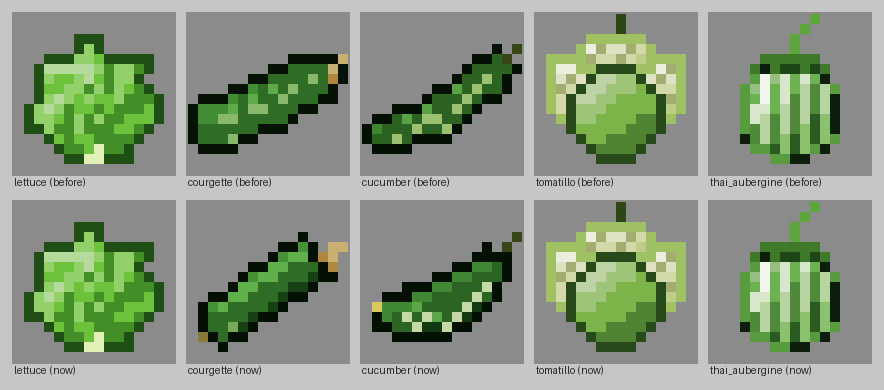
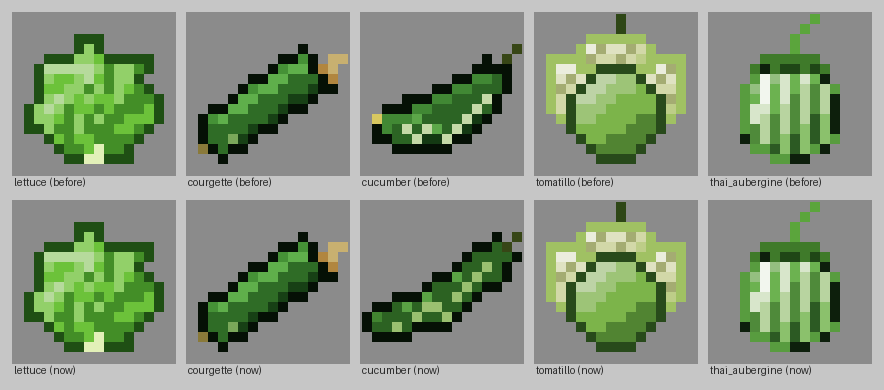
Restore the earlier cucumber
The user preferred the earlier cucumber; the new courgette stays.

Claude-Session: https://claude.ai/code/session_015LnbBras9DEmUQEKydUTyp

Changed region(s): [[0.2138, 0.0923, 0.3971, 0.4308], [0.3971, 0.5846, 0.6109, 0.8923], [0.3971, 0.0923, 0.6109, 0.4]]

diff --git a/.workflow/art/item_sprites.py b/.workflow/art/item_sprites.py
@@ -1242,25 +1242,15 @@ def courgette_hand():
 
 def cucumber_hand():
     s = Sprite()
-    skin = ramp("#2c6424", spread=0.85)
-    # A gentle curve, plump in the middle and tapering at both ends.
-    a, b, c = (1.6, 10.8), (7.8, 13.2), (14.0, 5.4)
-    samples = [((1 - t) ** 2 * a[0] + 2 * (1 - t) * t * b[0] + t * t * c[0],
-                (1 - t) ** 2 * a[1] + 2 * (1 - t) * t * b[1] + t * t * c[1], t) for t in [i / 40 for i in range(41)]]
-
-    def inside(x, y):
-        return any(math.dist((x, y), (px, py)) <= 0.7 + 2.4 * math.sin(math.pi * t) ** 0.6 for px, py, t in samples)
-    mask = s.shape(inside, skin, (7.6, 10.2), (6.2, 4.0))
-    # Warts: bumps that break the outline, and pale spine dots across the skin.
-    for x, y in [(4, 8), (7, 9), (10, 7), (12, 4)]:
-        if (x, y) not in mask and any((x + dx, y + 1) in mask for dx in (-1, 0, 1)):
-            s.put(x, y, skin[OUTLINE])
-    for x, y in [(4, 11), (6, 11), (8, 12), (10, 10), (12, 8), (7, 13), (9, 11), (11, 9), (5, 12)]:
-        if (x, y) in mask and s.pixels[y][x] != skin[OUTLINE]:
-            s.put(x, y, ramp("#a8c87a")[LIGHT])
-    s.pixels_at(skin[HIGHLIGHT], [(5, 10), (7, 11)])
-    # A yellowish blossom tip and a short stem.
-    s.pixels_at(ramp("#d8c860")[BASE], [(1, 10)])
+    skin = ramp("#2c6222", spread=0.8)
+    points = [(2.2, 12.0), (7.6, 10.4), (13.2, 5.8)]
+    s.capsule(skin, points, (2.2, 2.4))
+    # Little pale bumps all over.
+    bump = ramp("#9ac070")[BASE]
+    for x, y in [(3, 12), (5, 11), (7, 10), (9, 9), (11, 7), (12, 6), (4, 13), (6, 12), (8, 11), (10, 10), (6, 10), (10, 8)]:
+        if s.pixels[y][x] not in (None, skin[OUTLINE]):
+            s.put(x, y, bump)
+    s.pixels_at(skin[HIGHLIGHT], [(4, 10), (6, 9), (9, 7)])
     s.pixels_at(ramp("#6a7a2a")[SHADOW], [(14, 4), (15, 3)])
     return s
 
